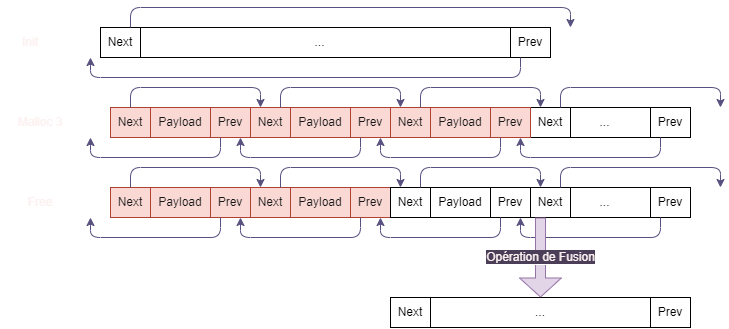
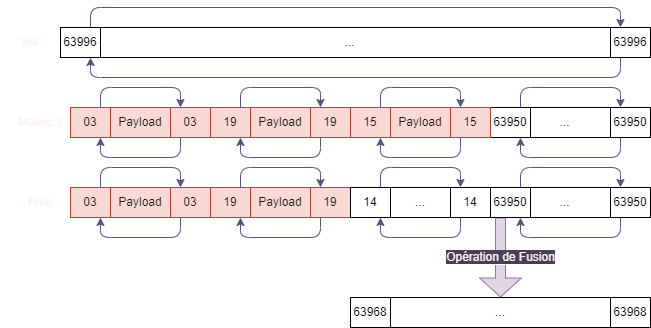
Final report and better figure

diff --git a/Inginious/P0/Rapport_P0_18.tex b/Inginious/P0/Rapport_P0_18.tex
@@ -66,12 +66,12 @@ Ajouter les 3 états d'exécution avec un diagramme et mettre les informations d
 
 \end{wrapfigure}
 
-Autour de chaque morceau de mémoire se trouve des informations sur la taille de ce dernier. On y indique le nombre d'octets avant le prochain bloc. Cela correspond à la taille libre $+ 2$.
+Autour de chaque morceau de mémoire se trouve des informations sur la taille de ce dernier. On y indique le nombre d'octets libres + 1 si le bloc est occupé.
 Étant donné que MY\_HEAP est un tableau de 64000 éléments et que nous ne souhaitons pas perdre d'information sur la taille des blocs, nous utilisons 2 bytes pour stocker la taille de ceux-ci.
-À la création, on indique donc qu'il y a 63998 octets disponibles. Ce nombre est écrit au début et à la fin de chaque morceau (les avantages de cette structure sont abordés aux sections \ref{free} et \ref{perf}). Ci-dessus, une représentation abstraite de la mémoire.
+À la création, on indique donc qu'il y a 63996 octets disponibles. Ce nombre est écrit au début et à la fin de chaque morceau (les avantages de cette structure sont abordés aux sections \ref{free} et \ref{perf}). Ci-dessus, une représentation abstraite de la mémoire.
 
 \subsection{Malloc}
-Notre implémentation de `malloc` est la suivante, on met de part et d'autre des cases des données la taille disponible $+2$. On alloue que des tailles paires ainsi on peut utiliser le bit de poids faible pour indiquer si les blocs sont libres ou occupés.  Si c'est un nombre pair par exemple 4, il y a donc 4 emplacements libres de 8 bits. Si ce chiffre était 5, cela signifierait qu'il y a 4 octets mais qu'ils ont été alloués par malloc.\\ 
+Notre implémentation de `malloc` est la suivante, on met de part et d'autre des cases des données la taille disponible. On alloue que des tailles paires ainsi on peut utiliser le bit de poids faible pour indiquer si les blocs sont libres ou occupés.  Si c'est un nombre pair par exemple 4, il y a donc 4 emplacements libres de chacun 8 bits. Si ce chiffre était 5, cela signifierait qu'il y a 4 octets mais qu'ils ont été alloués par malloc.\\ 
 En cas de demande d'un nombre impair, la taille du bloc retourné est augmentée de 1.\\
 On commence par chercher le premier ensemble de blocs qui puissent accueillir la taille désirée par l'utilisateur. On commence au début de notre Heap à chaque fois.\\
 2 critères d'arrêt sont considérés:
@@ -83,7 +83,7 @@ On commence par chercher le premier ensemble de blocs qui puissent accueillir la
 Si la taille du bloc trouvé est supérieure à la taille demandée, malloc va partitionner en 2 morceaux notre mémoire. Seul le premier est allouée et la fonction malloc s'occupe directement d'indiquer que la suite du bloc est toujours libre.
 
 %On va donc partitionner un ensemble de blocs en 2 plus petits ensembles. Le premier des deux a la taille désirée par l'utilisateur et le deuxième est le reste des blocs.\\ 
-Il est important de noter qu'à chaque fragmentation de notre mémoire, 4 octets (2 à chaque extrémité représentant la taille du bloc) de méta-données sont requis.
+Il est important de noter qu'à chaque fragmentation de notre mémoire, 4 octets (2 à chaque nouvelle extrémité représentant la taille du bloc) de méta-données sont requis.
 
 \subsection{Free}
 \label{free}

diff --git a/Inginious/P0/project.c b/Inginious/P0/project.c
@@ -300,24 +300,18 @@ void my_free(void *pointer) {    /*
 int main(int argc, char *argv[]){
 
     init();
+    dbgprint(MY_HEAP, 50);
 
-    uint8_t* test  = (uint8_t *) my_malloc(2); //63988: ok, 63989: pas ok
-    uint8_t* test2 = (uint8_t *) my_malloc(4);
-    uint8_t* test3 = (uint8_t *) my_malloc(6);
-    uint8_t* test4 = (uint8_t *) my_malloc(8);
-    uint8_t* test5 = (uint8_t *) my_malloc(63960); // HEAP is now full
+    uint8_t* test  = (uint8_t *) my_malloc(1); //63988: ok, 63989: pas ok
+    uint8_t* test2 = (uint8_t *) my_malloc(17);
+    uint8_t* test3 = (uint8_t *) my_malloc(13);
 
+    printf("%d\n", read_bytestoword(249,224));
+    dbgprint(MY_HEAP, 50);
 
-    printf("%d\n", read_bytestoword(249,216));
-    dbgprint(MY_HEAP, 30);
-
-    my_free(test2);
-    my_free(test);
     my_free(test3);
-    my_free(test4);
-    my_free(test5);
     
-    dbgprint(MY_HEAP, -30);
+    dbgprint(MY_HEAP, 50);
 
     for(int i = 0; i< 30; i++){
         //printf("%d\n", MY_HEAP[i]);
